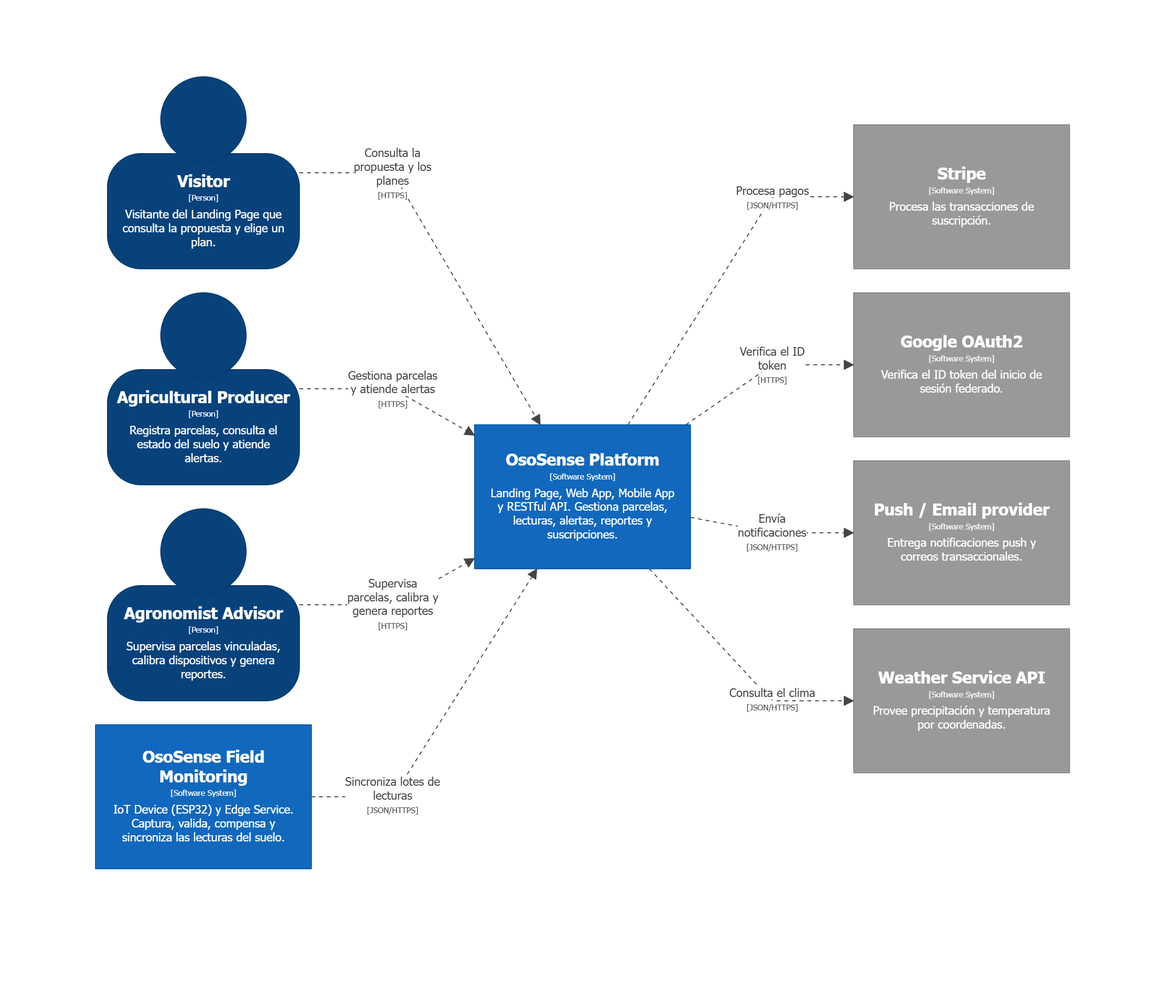
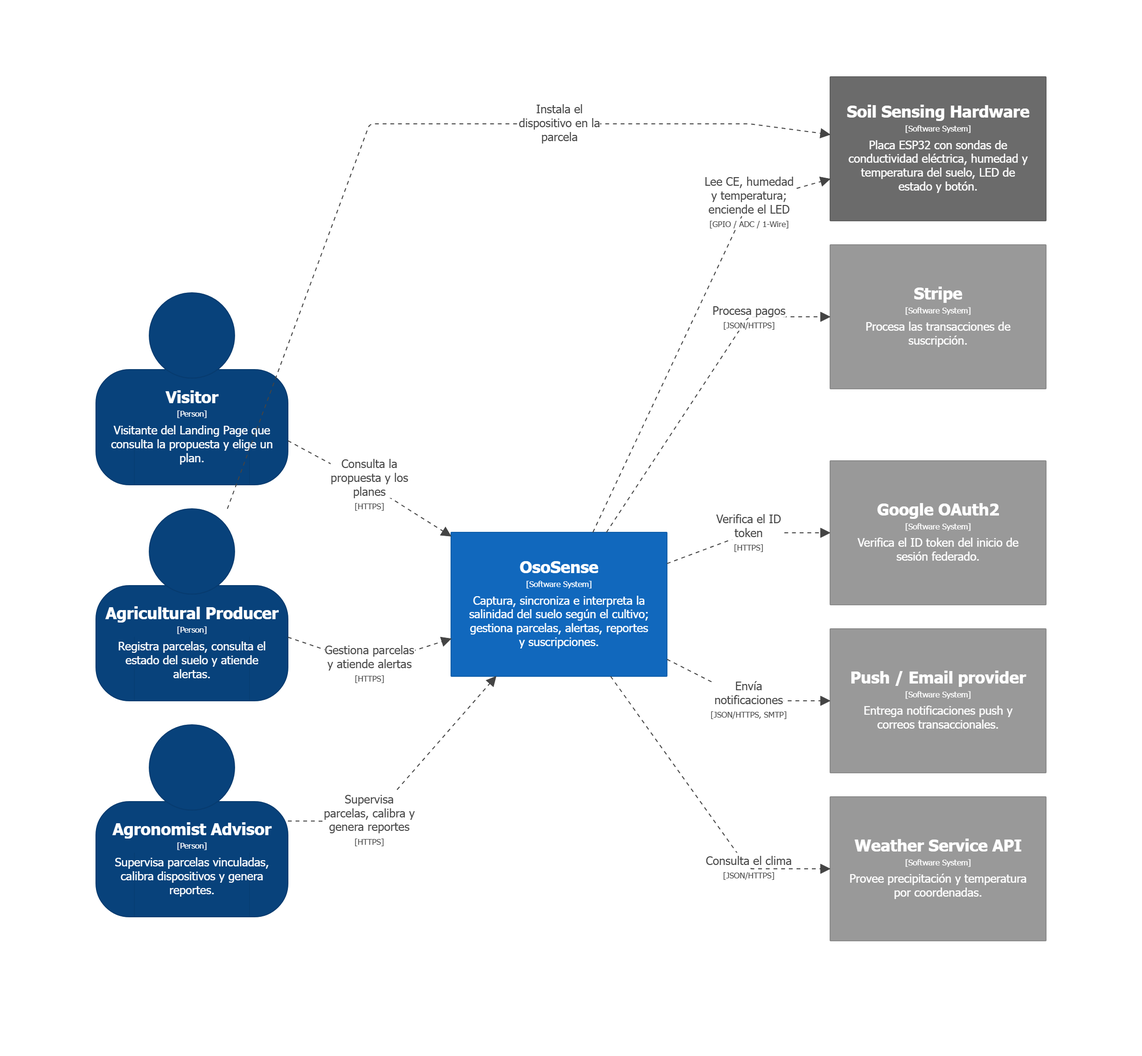
docs(chapter-4): merge C4 views into a single OsoSense system

diff --git a/chapters/chapter4.md b/chapters/chapter4.md
@@ -534,21 +534,24 @@ Además, cada integración con terceros se protege con un Anti-corruption Layer 
 
 La arquitectura de software de OsoSense se documenta siguiendo el modelo C4 de Simon Brown, que describe un sistema mediante niveles sucesivos de detalle, de modo que cada audiencia encuentre la vista con el grado de abstracción que necesita sin verse obligada a interpretar diagramas irrelevantes para su rol.
 
-Se presentan cuatro vistas. El **System Landscape Diagram** (4.1.3.1) ubica a OsoSense dentro del ecosistema de sistemas y actores con los que convive, incluidos los servicios externos de pago, notificación y datos meteorológicos. El **Context Level Diagram** (4.1.3.2) acota el alcance a la solución misma y a sus interacciones directas con usuarios y sistemas externos, sin revelar su estructura interna. El **Container Level Diagram** (4.1.3.3) descompone la solución en sus unidades desplegables —dispositivo de campo, Edge Service, RESTful API, aplicaciones web y móvil, Landing Page y base de datos— y muestra las tecnologías y protocolos que las comunican. El **Deployment Diagram** (4.1.3.4) proyecta esos contenedores sobre la infraestructura física y de nube donde se ejecutan.
+Se presentan cuatro vistas. El **System Landscape Diagram** (4.1.3.1) ubica a OsoSense dentro del ecosistema de actores, sistemas externos y hardware con los que convive. El **Context Level Diagram** (4.1.3.2) acota el alcance al sistema OsoSense y a sus interacciones directas, sin revelar su estructura interna. El **Container Level Diagram** (4.1.3.3) descompone OsoSense en sus unidades desplegables —Landing Page, Web App, Mobile App, RESTful API y su base de datos, Edge Service y su base local, y Embedded Application— y muestra las tecnologías y protocolos que las comunican. El **Deployment Diagram** (4.1.3.4) proyecta esos contenedores sobre la infraestructura física y de nube donde se ejecutan.
+
+Los cuatro diagramas se elaboraron con **Structurizr DSL** a partir de un único modelo, de modo que los nombres, las descripciones y las relaciones son idénticos en todas las vistas. El archivo fuente se versiona junto al informe en `assets/strategic-ddd/c4/ososense.dsl`.
 
 Los diagramas de nivel de componente, que corresponden al tercer nivel del C4, no se presentan aquí sino dentro de cada bounded context en la sección 4.2, porque su lectura solo tiene sentido junto al detalle táctico del contexto al que pertenecen.
 
 #### 4.1.3.1. Software Architecture System Landscape Diagram
 
-El System Landscape Diagram es la vista más amplia del C4 Model. Muestra, en una sola imagen, las personas que interactúan con la solución, los sistemas de software que Oso Terra construye y opera, y los sistemas externos con los que esos sistemas se integran. Su propósito es dar contexto antes de bajar al nivel de Context, Container y Component, sin entrar todavía en tecnologías ni despliegue.
+El System Landscape Diagram es la vista más amplia del C4 Model. Muestra, en una sola imagen, las personas que interactúan con la solución, el sistema de software que Oso Terra construye y opera, el hardware de campo y los sistemas externos con los que se integra. Su propósito es dar contexto antes de bajar al nivel de Context, Container y Component, sin entrar todavía en tecnologías ni despliegue.
 
 **Proceso de elaboración**
 
 1. **Identificación de personas.** Se tomaron los actores del Big Picture EventStorming (2.4) y de los flujos de mensajes (4.1.1.2) que interactúan directamente con la solución: el visitante del Landing Page, el Agricultural Producer y el Agronomist Advisor.
-2. **Identificación de sistemas propios.** Los productos digitales exigidos por el enunciado se agruparon en dos sistemas de software dentro del límite de la empresa Oso Terra: *OsoSense Platform*, que reúne el Landing Page, la Web App, la Mobile App y el RESTful API, y *OsoSense Field Monitoring*, que reúne el IoT Device y el Edge Service.
-3. **Identificación de sistemas externos.** Se tomaron los sistemas de terceros ya definidos en el Context Mapping (4.1.2): Stripe, Google OAuth2, el proveedor de notificaciones push y correo y el Weather Service API. El laboratorio de suelos se incluyó como sistema externo con el que interactúa el asesor.
-4. **Relaciones.** Cada relación se rotuló con la acción principal que realiza el emisor sobre el receptor.
-5. **Revisión.** Se verificó que cada persona y cada sistema externo del diagrama aparezca en al menos un escenario de Domain Storytelling.
+2. **Identificación del sistema propio.** Todos los productos de software exigidos por el enunciado —Landing Page, Web App, Mobile App, RESTful API, Edge Service y Embedded Application— se agruparon en un **único sistema de software, OsoSense**, porque los construye y opera el mismo equipo y solo tienen sentido juntos.
+3. **Identificación del hardware.** El **Soil Sensing Hardware** (placa ESP32 con las sondas de conductividad eléctrica, humedad y temperatura, el LED de estado y el botón) se representa como el único elemento físico fuera del sistema: el software embebido que corre sobre él sí forma parte de OsoSense.
+4. **Identificación de sistemas externos.** Se tomaron los sistemas de terceros ya definidos en el Context Mapping (4.1.2): Stripe, Google OAuth2, el proveedor de notificaciones push y correo y el Weather Service API. El laboratorio de suelos se incluyó como sistema externo con el que interactúa el asesor.
+5. **Relaciones.** Cada relación se rotuló con la acción principal que realiza el emisor sobre el receptor.
+6. **Revisión.** Se verificó que cada persona y cada sistema externo del diagrama aparezca en al menos un escenario de Domain Storytelling.
 
 <div align="center">
 <img src="../assets/strategic-ddd/system-landscape-diagram.png" alt="Software Architecture System Landscape Diagram de OsoSense" width="900">
@@ -559,43 +562,42 @@ El System Landscape Diagram es la vista más amplia del C4 Model. Muestra, en un
 
 | Elemento | Tipo | Descripción |
 |---|---|---|
-| Visitor | Persona | Visitante del Landing Page que conoce la propuesta y elige un plan. |
-| Agricultural Producer | Persona | Productor que registra sus parcelas, consulta lecturas y alertas y registra acciones correctivas. |
-| Agronomist Advisor | Persona | Asesor técnico que supervisa varias parcelas vinculadas, registra resultados de laboratorio y genera reportes. |
-| OsoSense Platform | Sistema propio | Landing Page, Web App, Mobile App y RESTful API. Gestiona parcelas, lecturas, alertas, reportes y suscripciones. |
-| OsoSense Field Monitoring | Sistema propio | IoT Device (ESP32) y Edge Service. Captura, compensa y sincroniza las lecturas del suelo. |
+| Visitor | Persona | Visitante del Landing Page que consulta la propuesta y elige un plan. |
+| Agricultural Producer | Persona | Registra parcelas, consulta el estado del suelo, atiende alertas e instala el dispositivo en su parcela. |
+| Agronomist Advisor | Persona | Supervisa parcelas vinculadas, calibra dispositivos, envía muestras al laboratorio y genera reportes. |
+| OsoSense | Sistema propio | Captura, sincroniza e interpreta la salinidad del suelo según el cultivo; gestiona parcelas, alertas, reportes y suscripciones. |
+| Soil Sensing Hardware | Hardware | Placa ESP32 con sondas de conductividad eléctrica, humedad y temperatura del suelo, LED de estado y botón. |
 | Stripe | Sistema externo | Procesa los pagos y cobros recurrentes de las suscripciones. |
 | Google OAuth2 | Sistema externo | Permite el inicio de sesión federado. |
 | Push / Email provider | Sistema externo | Entrega las notificaciones de alertas. |
-| Weather Service API | Sistema externo | Provee datos de precipitación por coordenadas para los reportes. |
+| Weather Service API | Sistema externo | Provee datos de precipitación y temperatura por coordenadas. |
 | Soil Laboratory | Sistema externo | Laboratorio acreditado que entrega el análisis de ECe usado para calibrar el dispositivo. |
 
 **Relaciones principales**
 
-- El **Visitor** conoce la propuesta y elige un plan en OsoSense Platform.
-- El **Agricultural Producer** usa OsoSense Platform para gestionar sus parcelas y atender alertas, e instala el dispositivo de OsoSense Field Monitoring en su parcela.
-- El **Agronomist Advisor** supervisa parcelas y genera reportes en OsoSense Platform, y envía muestras de suelo al Soil Laboratory.
-- **OsoSense Field Monitoring** envía lotes de lecturas a OsoSense Platform por HTTPS y recibe de ella el factor de calibración.
-- **OsoSense Platform** cobra las suscripciones con Stripe, verifica el ID token con Google OAuth2, envía alertas mediante el proveedor push y de correo, y consulta la lluvia en el Weather Service API.
+- El **Visitor** consulta la propuesta y los planes; el **Agricultural Producer** gestiona sus parcelas y atiende alertas; el **Agronomist Advisor** supervisa parcelas, calibra y genera reportes. Los tres interactúan con OsoSense por HTTPS.
+- El **Agricultural Producer** instala el **Soil Sensing Hardware** en la parcela, y OsoSense lee de él la conductividad eléctrica, la humedad y la temperatura del suelo y controla su LED de estado.
+- El **Agronomist Advisor** envía muestras de suelo al **Soil Laboratory**.
+- **OsoSense** cobra las suscripciones con Stripe, verifica el ID token con Google OAuth2, envía alertas mediante el proveedor push y de correo, y consulta el clima en el Weather Service API.
 
 **Decisiones reflejadas en el diagrama**
 
-- La solución se separa en dos sistemas porque la parte de campo opera con conectividad intermitente y se despliega en el dispositivo y el Edge Service, mientras que la plataforma se despliega en la nube.
-- Todas las integraciones con terceros pasan por OsoSense Platform; el campo no depende directamente de ningún sistema externo.
+- La solución es **un solo sistema de software**: el Edge Service y la Embedded Application son contenedores de OsoSense, no un sistema aparte. Lo único que queda fuera del límite es el hardware físico.
+- Todas las integraciones con terceros se hacen desde OsoSense y, como se verá en el nivel de Container, las concentra el RESTful API.
 - Los niveles de Context, Container y Deployment se detallan en las secciones siguientes.
 
 **URL del board en FigJam:** [OsoSense - Strategic DDD (Persona 3)](https://www.figma.com/board/IKkiZBJVEPP7dJKERzuDQJ/OsoSense---Strategic-DDD--Persona-3-?node-id=0-1&t=JmLMs0KXFXlRHfkK-1)
 
 #### 4.1.3.2. Software Architecture Context Level Diagrams
 
-El System Context Diagram enfoca **OsoSense Platform** —el sistema con el que interactúan directamente las personas— y muestra sus dependencias inmediatas: los usuarios, el sistema de campo que le entrega lecturas y los sistemas externos con los que se integra. Todavía no se detallan contenedores ni tecnologías; eso corresponde al nivel de Container.
+El System Context Diagram enfoca el sistema **OsoSense** y muestra sus dependencias inmediatas: los usuarios, el hardware de campo del que obtiene las lecturas y los sistemas externos con los que se integra. Todavía no se detallan contenedores ni tecnologías; eso corresponde al nivel de Container.
 
 **Proceso de elaboración**
 
-1. **Sistema en foco.** Se eligió OsoSense Platform como sistema central, por ser el que usan directamente el visitante, el productor y el asesor.
+1. **Sistema en foco.** OsoSense como una sola caja que reúne todos los productos de software de la solución, incluidos el Edge Service y la Embedded Application.
 2. **Personas.** Se heredaron del System Landscape (4.1.3.1): Visitor, Agricultural Producer y Agronomist Advisor.
-3. **Sistema adyacente.** OsoSense Field Monitoring se modela como sistema vecino que envía lotes de lecturas y recibe el factor de calibración.
-4. **Sistemas externos.** Se conservaron los del Context Mapping (4.1.2): Stripe, Google OAuth2, el proveedor de notificaciones push y correo, el Weather Service API y el Soil Laboratory.
+3. **Hardware.** El Soil Sensing Hardware se modela fuera del sistema: OsoSense lee sus sensores y controla su LED de estado; el productor lo instala en la parcela.
+4. **Sistemas externos.** Se conservaron los del Context Mapping (4.1.2): Stripe, Google OAuth2, el proveedor de notificaciones push y correo y el Weather Service API.
 5. **Relaciones.** Cada relación se rotuló con la acción principal y el protocolo del emisor sobre el receptor.
 
 <div align="center">
@@ -608,74 +610,68 @@ El System Context Diagram enfoca **OsoSense Platform** —el sistema con el que 
 | Elemento | Tipo | Descripción |
 |---|---|---|
 | Visitor | Persona | Visitante del Landing Page que consulta la propuesta y los planes. |
-| Agricultural Producer | Persona | Registra parcelas, consulta el estado del suelo y atiende alertas. |
+| Agricultural Producer | Persona | Registra parcelas, consulta el estado del suelo, atiende alertas e instala el dispositivo. |
 | Agronomist Advisor | Persona | Supervisa parcelas vinculadas, calibra dispositivos y genera reportes. |
-| OsoSense Platform | Sistema en foco | Reúne Landing Page, Web App, Mobile App y RESTful API. |
-| OsoSense Field Monitoring | Sistema adyacente | Captura, valida, compensa y sincroniza las lecturas del suelo. |
+| OsoSense | Sistema en foco | Landing Page, Web App, Mobile App, RESTful API, Edge Service y Embedded Application. |
+| Soil Sensing Hardware | Hardware | Sensores de conductividad eléctrica, humedad y temperatura del suelo sobre la placa ESP32. |
 | Stripe | Sistema externo | Procesa las transacciones de suscripción. |
 | Google OAuth2 | Sistema externo | Verifica el ID token del inicio de sesión federado. |
 | Push / Email provider | Sistema externo | Entrega notificaciones push y correos transaccionales. |
-| Weather Service API | Sistema externo | Provee precipitación y temperatura ambiental por coordenadas. |
-| Soil Laboratory | Sistema externo | Emite el análisis de ECe de referencia usado para calibrar el dispositivo. |
+| Weather Service API | Sistema externo | Provee precipitación y temperatura por coordenadas. |
 
 **Relaciones principales**
 
-- El **Visitor** consulta la propuesta y los planes en OsoSense Platform (HTTPS).
-- El **Producer** gestiona sus parcelas y atiende alertas, y el **Advisor** supervisa parcelas, calibra y genera reportes (HTTPS).
-- **OsoSense Field Monitoring** envía lotes de lecturas a la plataforma y recibe de ella el factor de calibración (HTTPS).
-- **OsoSense Platform** procesa pagos con Stripe, verifica el ID token con Google OAuth2, envía notificaciones por el proveedor push/correo y consulta el clima en el Weather Service API.
-- El **Advisor** solicita análisis al **Soil Laboratory** y registra su resultado en la plataforma, cerrando el ciclo de calibración.
+- El **Visitor** consulta la propuesta y los planes, el **Producer** gestiona sus parcelas y atiende alertas, y el **Advisor** supervisa parcelas, calibra y genera reportes (HTTPS).
+- **OsoSense** lee la conductividad eléctrica, la humedad y la temperatura del **Soil Sensing Hardware** y enciende su LED de estado (GPIO, ADC y 1-Wire); el **Producer** instala el dispositivo en la parcela.
+- **OsoSense** procesa pagos con Stripe, verifica el ID token con Google OAuth2, envía notificaciones por el proveedor push/correo y consulta el clima en el Weather Service API.
 
 **Decisiones reflejadas en el diagrama**
 
-- El foco en OsoSense Platform evita repetir el Landscape: Field Monitoring se ve aquí como una caja cuyo interior se abre en el nivel de Container.
+- El límite del sistema separa **software** de **hardware**: la captura, la compensación, el almacenamiento local y la sincronización de lecturas son responsabilidades de OsoSense, aunque se ejecuten en campo.
 - La dependencia del **servicio meteorológico** es no crítica: su indisponibilidad degrada la riqueza del diagnóstico pero no impide la operación.
-- Todas las integraciones con terceros pasan por la plataforma; el campo no depende directamente de ningún sistema externo.
+- Todas las integraciones con terceros pasan por OsoSense; el hardware no depende directamente de ningún sistema externo.
 
 #### 4.1.3.3. Software Architecture Container Level Diagrams
 
-El Container Level abre los sistemas del nivel anterior en sus unidades de despliegue independiente (aplicaciones, servicios y almacenes de datos), con la tecnología de cada una y sus canales de comunicación. En total son **siete unidades desplegables** repartidas en los dos sistemas propios.
+El Container Level abre el sistema OsoSense en sus unidades de despliegue independiente (aplicaciones, servicios y almacenes de datos), con la tecnología de cada una y sus canales de comunicación. Son **ocho contenedores** dentro de un solo límite de sistema; fuera quedan las personas, los sistemas externos y el hardware.
 
 **Proceso de elaboración**
 
-1. **Descomposición de OsoSense Platform.** Landing Page (estático), Web App y Mobile App como clientes, el RESTful API como backend de negocio y la Platform Database como almacén.
-2. **Descomposición de OsoSense Field Monitoring.** Embedded Application sobre el ESP32, Edge Service en campo y su base local para la sincronización diferida.
-3. **Tecnologías.** Se anotó la pila establecida por el curso para cada contenedor.
-4. **Protocolos.** Cada relación se rotuló con su protocolo (JSON/HTTPS, JDBC, SQL local, Serial/WiFi, SMTP).
+1. **Contenedores de cara al usuario.** Landing Page (estático), Web App y Mobile App como clientes.
+2. **Backend.** El RESTful API como monolito modular de negocio y la Platform Database como su almacén.
+3. **Contenedores de campo.** El Edge Service con su propia base local (Edge Local Database) para la sincronización diferida, y la Embedded Application que corre sobre el ESP32.
+4. **Tecnologías.** Se anotó la pila establecida por el curso para cada contenedor.
+5. **Protocolos.** Cada relación se rotuló con su protocolo (JSON/HTTPS, JDBC, SQL local, JSON/HTTP sobre WiFi, GPIO/ADC/1-Wire, SMTP).
 
 <div align="center">
-<img src="../assets/strategic-ddd/container-diagram-platform.png" alt="Software Architecture Container Diagram — OsoSense Platform" width="950">
-<p><em>Software Architecture Container Diagram — OsoSense Platform.</em></p>
-</div>
-
-<div align="center">
-<img src="../assets/strategic-ddd/container-diagram-field.png" alt="Software Architecture Container Diagram — OsoSense Field Monitoring" width="850">
-<p><em>Software Architecture Container Diagram — OsoSense Field Monitoring.</em></p>
+<img src="../assets/strategic-ddd/container-diagram.png" alt="Software Architecture Container Diagram de OsoSense" width="950">
+<p><em>Software Architecture Container Diagram de OsoSense.</em></p>
 </div>
 
 **Elementos del diagrama**
 
-| Contenedor | Sistema | Tecnología | Responsabilidad |
-|---|---|---|---|
-| Landing Page | OsoSense Platform | HTML5, CSS3, JavaScript | Sitio estático que presenta el modelo de negocio y los planes. |
-| Web Application | OsoSense Platform | Angular, TypeScript, Angular Material | Interfaz responsive de gestión, tableros y reportes (asesor). |
-| Mobile Application | OsoSense Platform | Kotlin / Android | App nativa de consulta en campo y recepción de alertas (productor). |
-| RESTful API | OsoSense Platform | Spring Boot, Java, Spring Data JPA | Expone las capacidades de los seis bounded contexts. |
-| Platform Database | OsoSense Platform | MySQL | Persiste cuentas, suscripciones, fincas, parcelas, lecturas y alertas. |
-| Embedded Application | OsoSense Field Monitoring | C++ / ESP32 | Captura periódicamente CE, humedad y temperatura del suelo. |
-| Edge Service | OsoSense Field Monitoring | Flask, Python, Peewee ORM | Valida, compensa y sincroniza las lecturas del dispositivo. |
-| Edge Local Database | OsoSense Field Monitoring | SQLite | Almacena las lecturas pendientes de sincronización. |
+| Contenedor | Tecnología | Responsabilidad |
+|---|---|---|
+| Landing Page | HTML5, CSS3, JavaScript | Sitio estático que presenta el modelo de negocio y los planes. |
+| Web Application | Angular, TypeScript, Angular Material | Interfaz responsive de gestión, tableros y reportes (asesor y productor). |
+| Mobile Application | Kotlin / Android | App nativa de consulta en campo y recepción de alertas (productor). |
+| RESTful API | Spring Boot, Java, Spring Data JPA | Monolito modular que expone las capacidades de los seis bounded contexts. |
+| Platform Database | MySQL | Persiste cuentas, suscripciones, fincas, parcelas, lecturas y alertas. |
+| Edge Service | Flask, Python, Peewee ORM | Valida, compensa a 25 °C y sincroniza las lecturas; reenvía los lotes pendientes al recuperar la conexión. |
+| Edge Local Database | SQLite | Persiste las lecturas pendientes de sincronización. |
+| Embedded Application | C++ / Arduino Framework | Firmware que muestrea los sensores, controla el LED y el botón y envía las lecturas. |
 
 **Relaciones principales**
 
 - El **Visitor** visita el Landing Page, que redirige a la Web App mediante un call-to-action (HTTPS).
 - **Web App** y **Mobile App** consumen el mismo **RESTful API** (JSON/HTTPS); el API es el único que lee y escribe en la Platform Database (JDBC).
-- La **Embedded Application** transmite lecturas al **Edge Service** (Serial/WiFi); el Edge las guarda en su base local (SQL) y sincroniza los lotes al API (JSON/HTTPS).
-- El **RESTful API** concentra las integraciones externas: Stripe, Weather Service API y notificaciones push (JSON/HTTPS) y correo (SMTP).
+- El flujo de campo es **RESTful API ↔ Edge Service ↔ Embedded Application ↔ hardware**: la **Embedded Application** lee los sensores del **Soil Sensing Hardware** (GPIO/ADC/1-Wire) y envía las lecturas al **Edge Service** (JSON/HTTP sobre WiFi); el Edge las guarda en su base local (SQL), sincroniza los lotes al API (JSON/HTTPS) y recibe de él el factor de calibración y los umbrales.
+- El **RESTful API** concentra las integraciones externas: Stripe, Google OAuth2, Weather Service API y notificaciones push (JSON/HTTPS) y correo (SMTP).
 
 **Decisiones reflejadas en el diagrama**
 
-- La separación entre **Edge Service** y **RESTful API** es la decisión más relevante: el Edge se despliega en campo y asume la validación de rango, la compensación a 25 °C sobre la lectura fresca y el almacenamiento local con sincronización diferida. Sin ella, cada corte de conexión produciría un vacío irrecuperable en el histórico —el activo que sostiene la propuesta de valor.
+- **RESTful API como monolito modular.** Los seis bounded contexts se implementan como módulos de un mismo despliegue Spring Boot, cada uno con sus capas `domain`, `application`, `infrastructure` e `interfaces`, y se comunican entre sí solo por sus fachadas y eventos. Se eligió así por practicidad: un equipo de siete personas, un único pipeline de despliegue, una sola base de datos transaccional y menor costo de operación en la nube. Como los límites entre módulos ya coinciden con los bounded contexts, cualquiera de ellos puede extraerse a un servicio independiente si su carga lo exige, sin rediseñar el dominio.
+- La separación entre **Edge Service** y **RESTful API** es la decisión más relevante del lado de campo: el Edge se despliega junto a la parcela y asume la validación de rango, la compensación a 25 °C sobre la lectura fresca y el almacenamiento local con sincronización diferida. Sin ella, cada corte de conexión produciría un vacío irrecuperable en el histórico, que es el activo que sostiene la propuesta de valor.
 - La **Web App** (asesor, gabinete, pantalla amplia) y la **Mobile App** (productor, campo, notificaciones push) consumen el mismo API pero atienden contextos de uso distintos.
 - El **Landing Page** se mantiene como contenedor independiente, desplegado como sitio estático, para publicarse y evolucionar sin acoplarse al ciclo de despliegue de la Web App.
 
@@ -685,9 +681,9 @@ El Deployment Diagram mapea los contenedores del nivel anterior a la infraestruc
 
 **Proceso de elaboración**
 
-1. **Nodos de campo.** La Embedded Application se despliega en el nodo ESP32 y el Edge Service, con su base SQLite, en un gateway local.
+1. **Nodos de campo.** La Embedded Application se despliega en el ESP32 del Soil Sensing Hardware y el Edge Service, con su base SQLite, en un gateway local.
 2. **Dispositivos del usuario.** El Landing Page y la Web App se ejecutan en el navegador; la Mobile App, en el dispositivo Android.
-3. **Nodos cloud.** Se separaron el hosting estático (Landing Page), el hosting de la Web App, el servidor de aplicaciones (RESTful API sobre la JVM) y el servidor de base de datos.
+3. **Nodos cloud.** Se separaron el servidor de aplicaciones (RESTful API sobre la JVM) y el servidor de base de datos.
 4. **Enlaces.** Cada canal de despliegue se rotuló con su protocolo.
 
 <div align="center">
@@ -699,19 +695,17 @@ El Deployment Diagram mapea los contenedores del nivel anterior a la infraestruc
 
 | Deployment Node | Contenedores desplegados | Notas |
 |---|---|---|
-| Parcela → ESP32 (microcontrolador) | Embedded Application (C++ / Arduino Framework) | Opera con conectividad intermitente. |
-| Parcela → Gateway local (Raspberry Pi / PC) | Edge Service (Flask/Python) + Edge Local Database (SQLite) | Compensa y bufferiza hasta sincronizar. |
-| Navegador web | Landing Page (HTML/CSS/JS) + Web Application (Angular SPA) | Descargados desde el hosting cloud. |
-| Dispositivo Android | Mobile Application (Kotlin APK) | Cliente de campo del productor. |
-| Cloud → Static Hosting | Landing Page (archivos estáticos) | Publicación desacoplada. |
-| Cloud → Web Hosting | Web Application (build de producción) | — |
-| Cloud → Application Server (JVM) | RESTful API (Spring Boot JAR) | Backend de negocio. |
-| Cloud → Database Server | Platform Database (MySQL) | Persistencia canónica. |
+| Parcela agrícola → ESP32 (Soil Sensing Hardware) | Embedded Application (C++ / Arduino Framework) | Opera con conectividad intermitente. |
+| Parcela agrícola → Gateway local (Raspberry Pi / PC) | Edge Service (Flask/Python) + Edge Local Database (SQLite) | Compensa y bufferiza hasta sincronizar. |
+| Dispositivos del usuario → Navegador web | Landing Page (HTML/CSS/JS) + Web Application (Angular SPA) | Descargados desde el hosting cloud. |
+| Dispositivos del usuario → Dispositivo Android | Mobile Application (Kotlin APK) | Cliente de campo del productor. |
+| Proveedor cloud → Application Server (JVM) | RESTful API (Spring Boot JAR) | Monolito modular de negocio. |
+| Proveedor cloud → Database Server | Platform Database (MySQL) | Persistencia canónica. |
 
 **Decisiones reflejadas en el diagrama**
 
-- La parte de campo (ESP32 + gateway local) se despliega **fuera de la nube**, junto a la parcela, para tolerar cortes de conectividad; la plataforma se despliega **en la nube**.
-- El Landing Page y la Web App se sirven como contenido estático/compilado desde la nube y se ejecutan en el navegador del usuario, separados del servidor de aplicaciones que ejecuta el API sobre la JVM.
+- Los contenedores de campo (Embedded Application, Edge Service y su base local) se despliegan **fuera de la nube**, junto a la parcela, para tolerar cortes de conectividad; el resto del sistema se despliega **en la nube**. Todos pertenecen al mismo sistema OsoSense.
+- El Landing Page y la Web App se sirven como contenido estático/compilado y se ejecutan en el navegador del usuario, separados del servidor de aplicaciones que ejecuta el API sobre la JVM.
 - La base de datos MySQL se despliega en un servidor dedicado, accesible únicamente desde el servidor de aplicaciones.
 
 ## 4.2. Tactical-Level Domain-Driven Design

diff --git a/versions.md b/versions.md
@@ -77,6 +77,7 @@
 | 0.0.73 | 18/09/2026 | Andreow Jomark Santiago Peña | Capítulo II: títulos descriptivos en los User Journey Maps y Empathy Maps exportados de UXPressia. |
 | 0.0.74 | 18/09/2026 | Alexis Encalada Salazar | Capítulo II: enlace único del video de entrevistas de needfinding con el timing de inicio y la duración de cada una de las seis entrevistas. |
 | 0.0.75 | 18/09/2026 | Alexis Encalada Salazar | Anexos: enlace del video de exposición de AV1 en el Anexo C. |
+| 0.0.85 | 28/09/2026 | Andreow Jomark Santiago Peña | Capítulo IV: C4 Model corregido según la retroalimentación del AV1. OsoSense como un único sistema (Edge Service y Embedded Application dentro), el Soil Sensing Hardware como único elemento externo, un solo Container Diagram con el flujo API, Edge, Embedded y hardware, justificación del monolito modular y fuente en Structurizr DSL. |
 
 # Project Report Collaboration Insights
 
